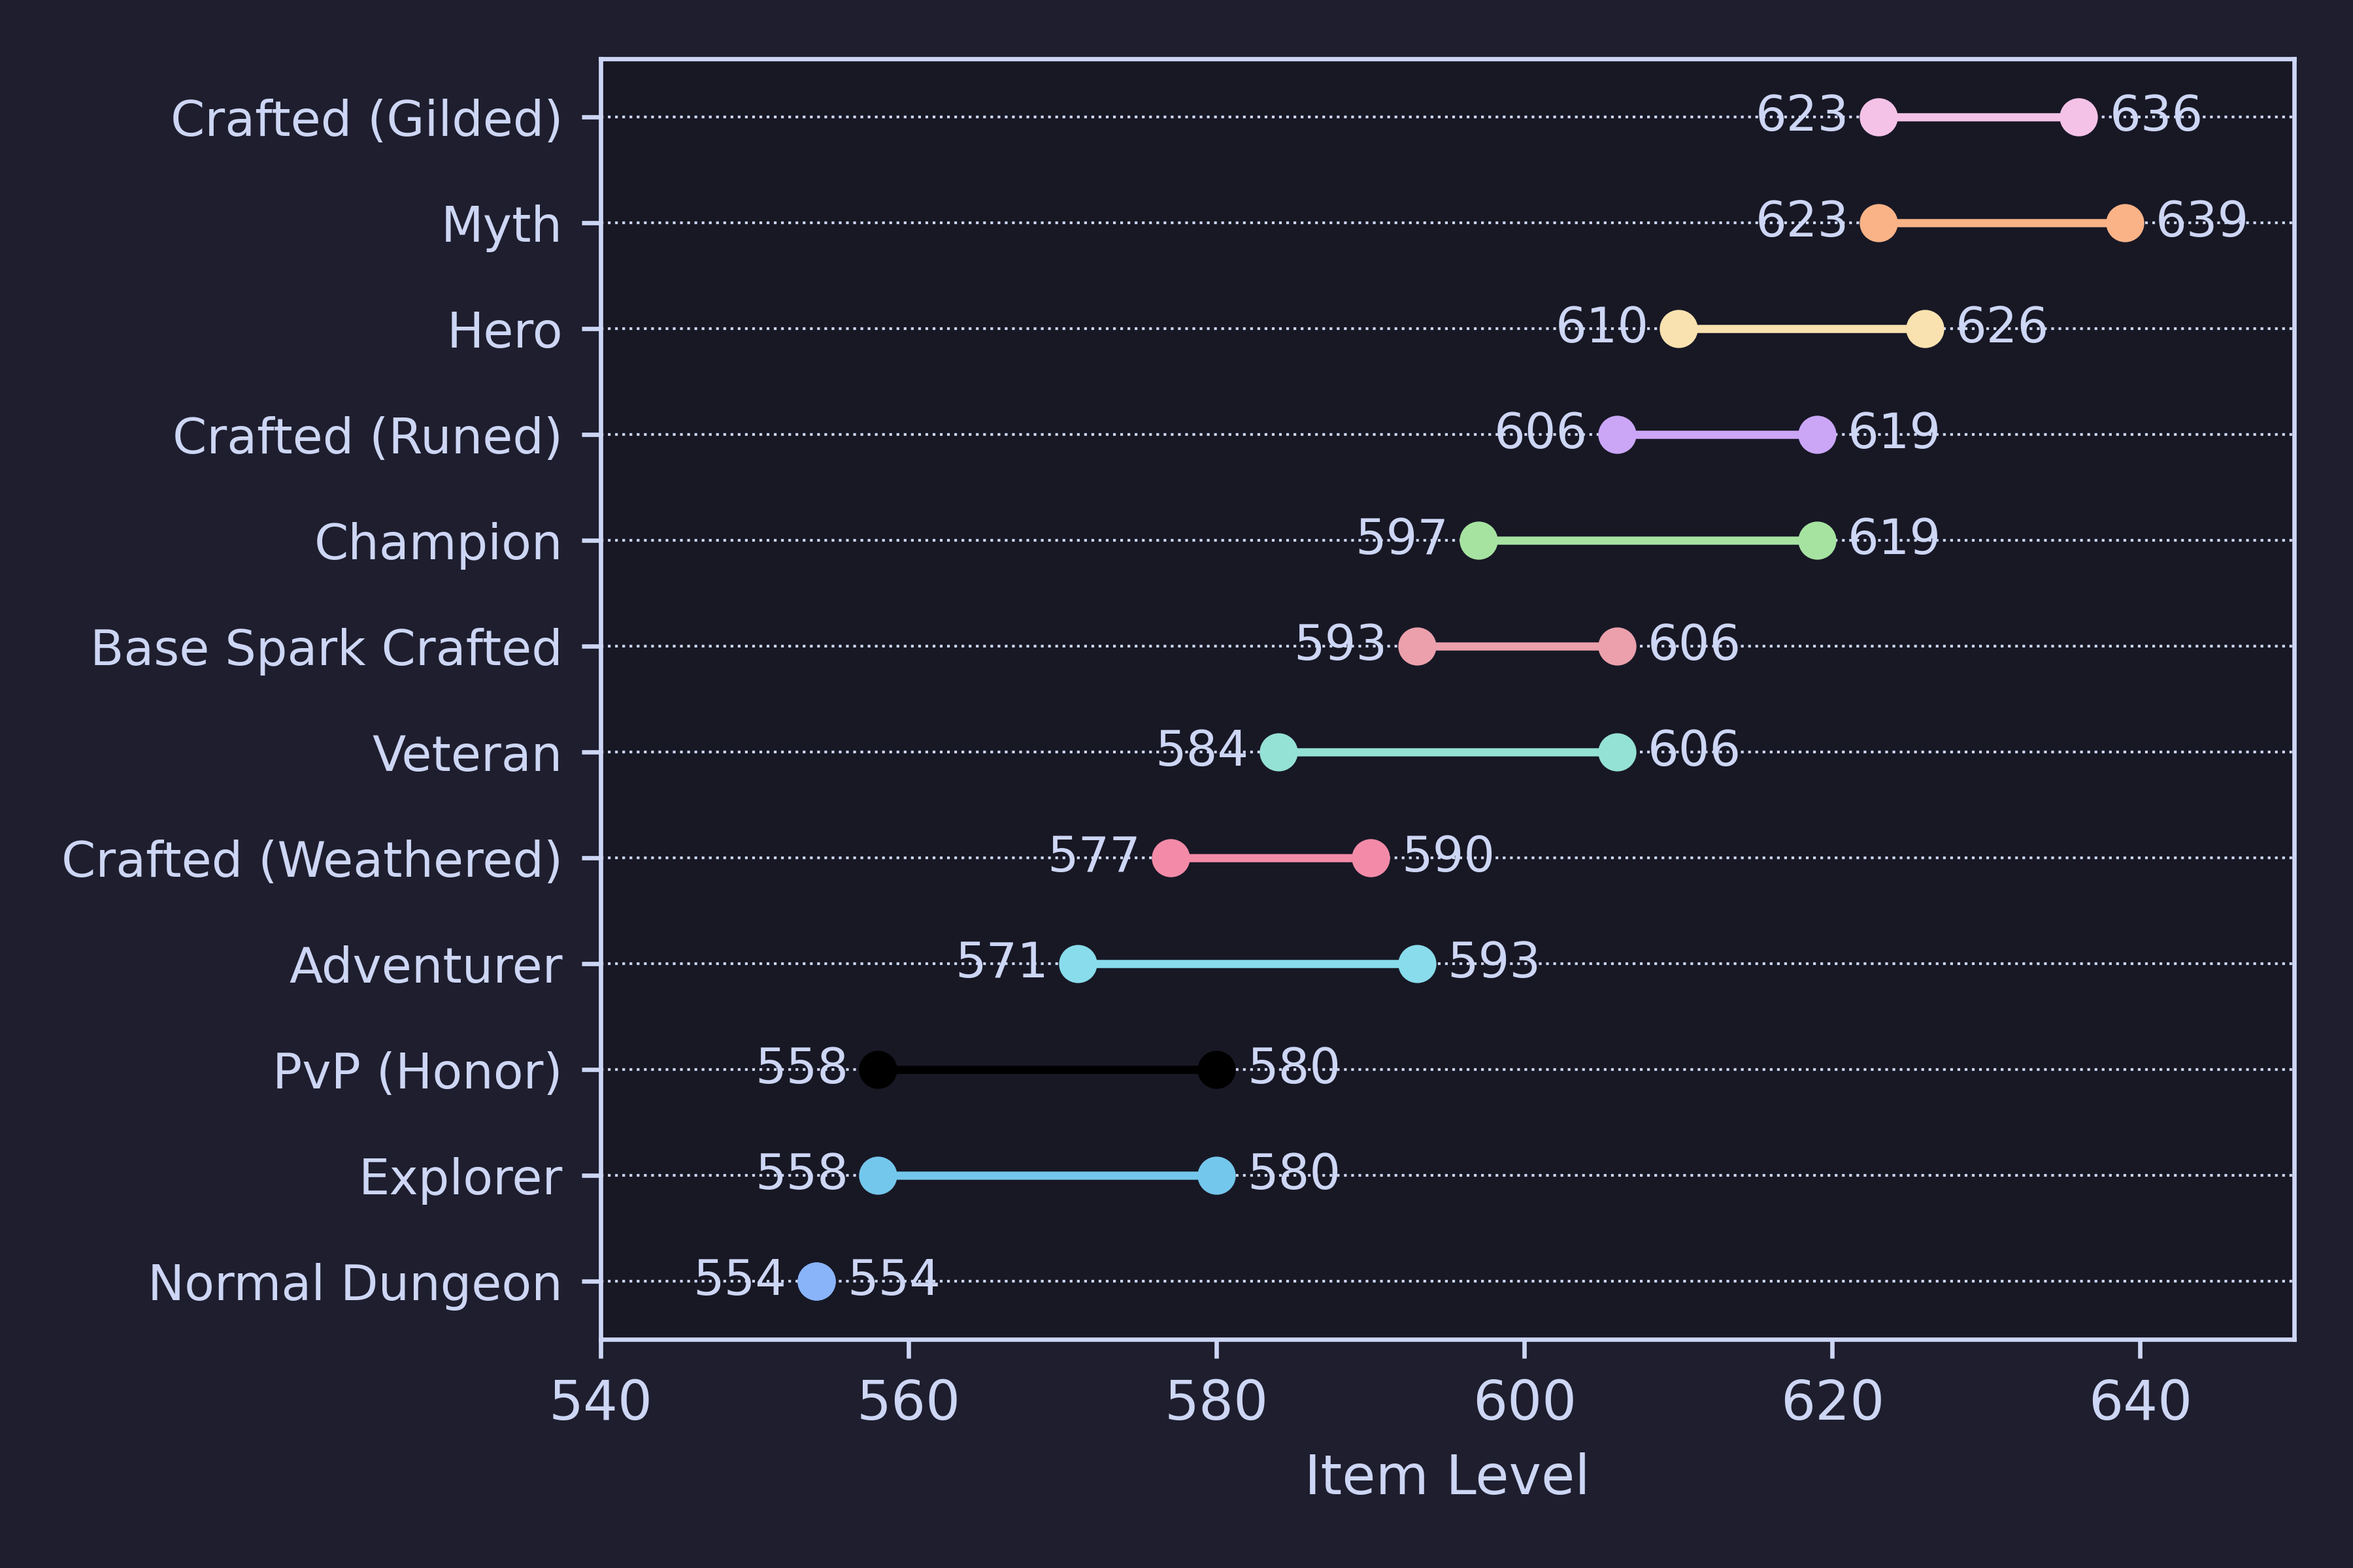
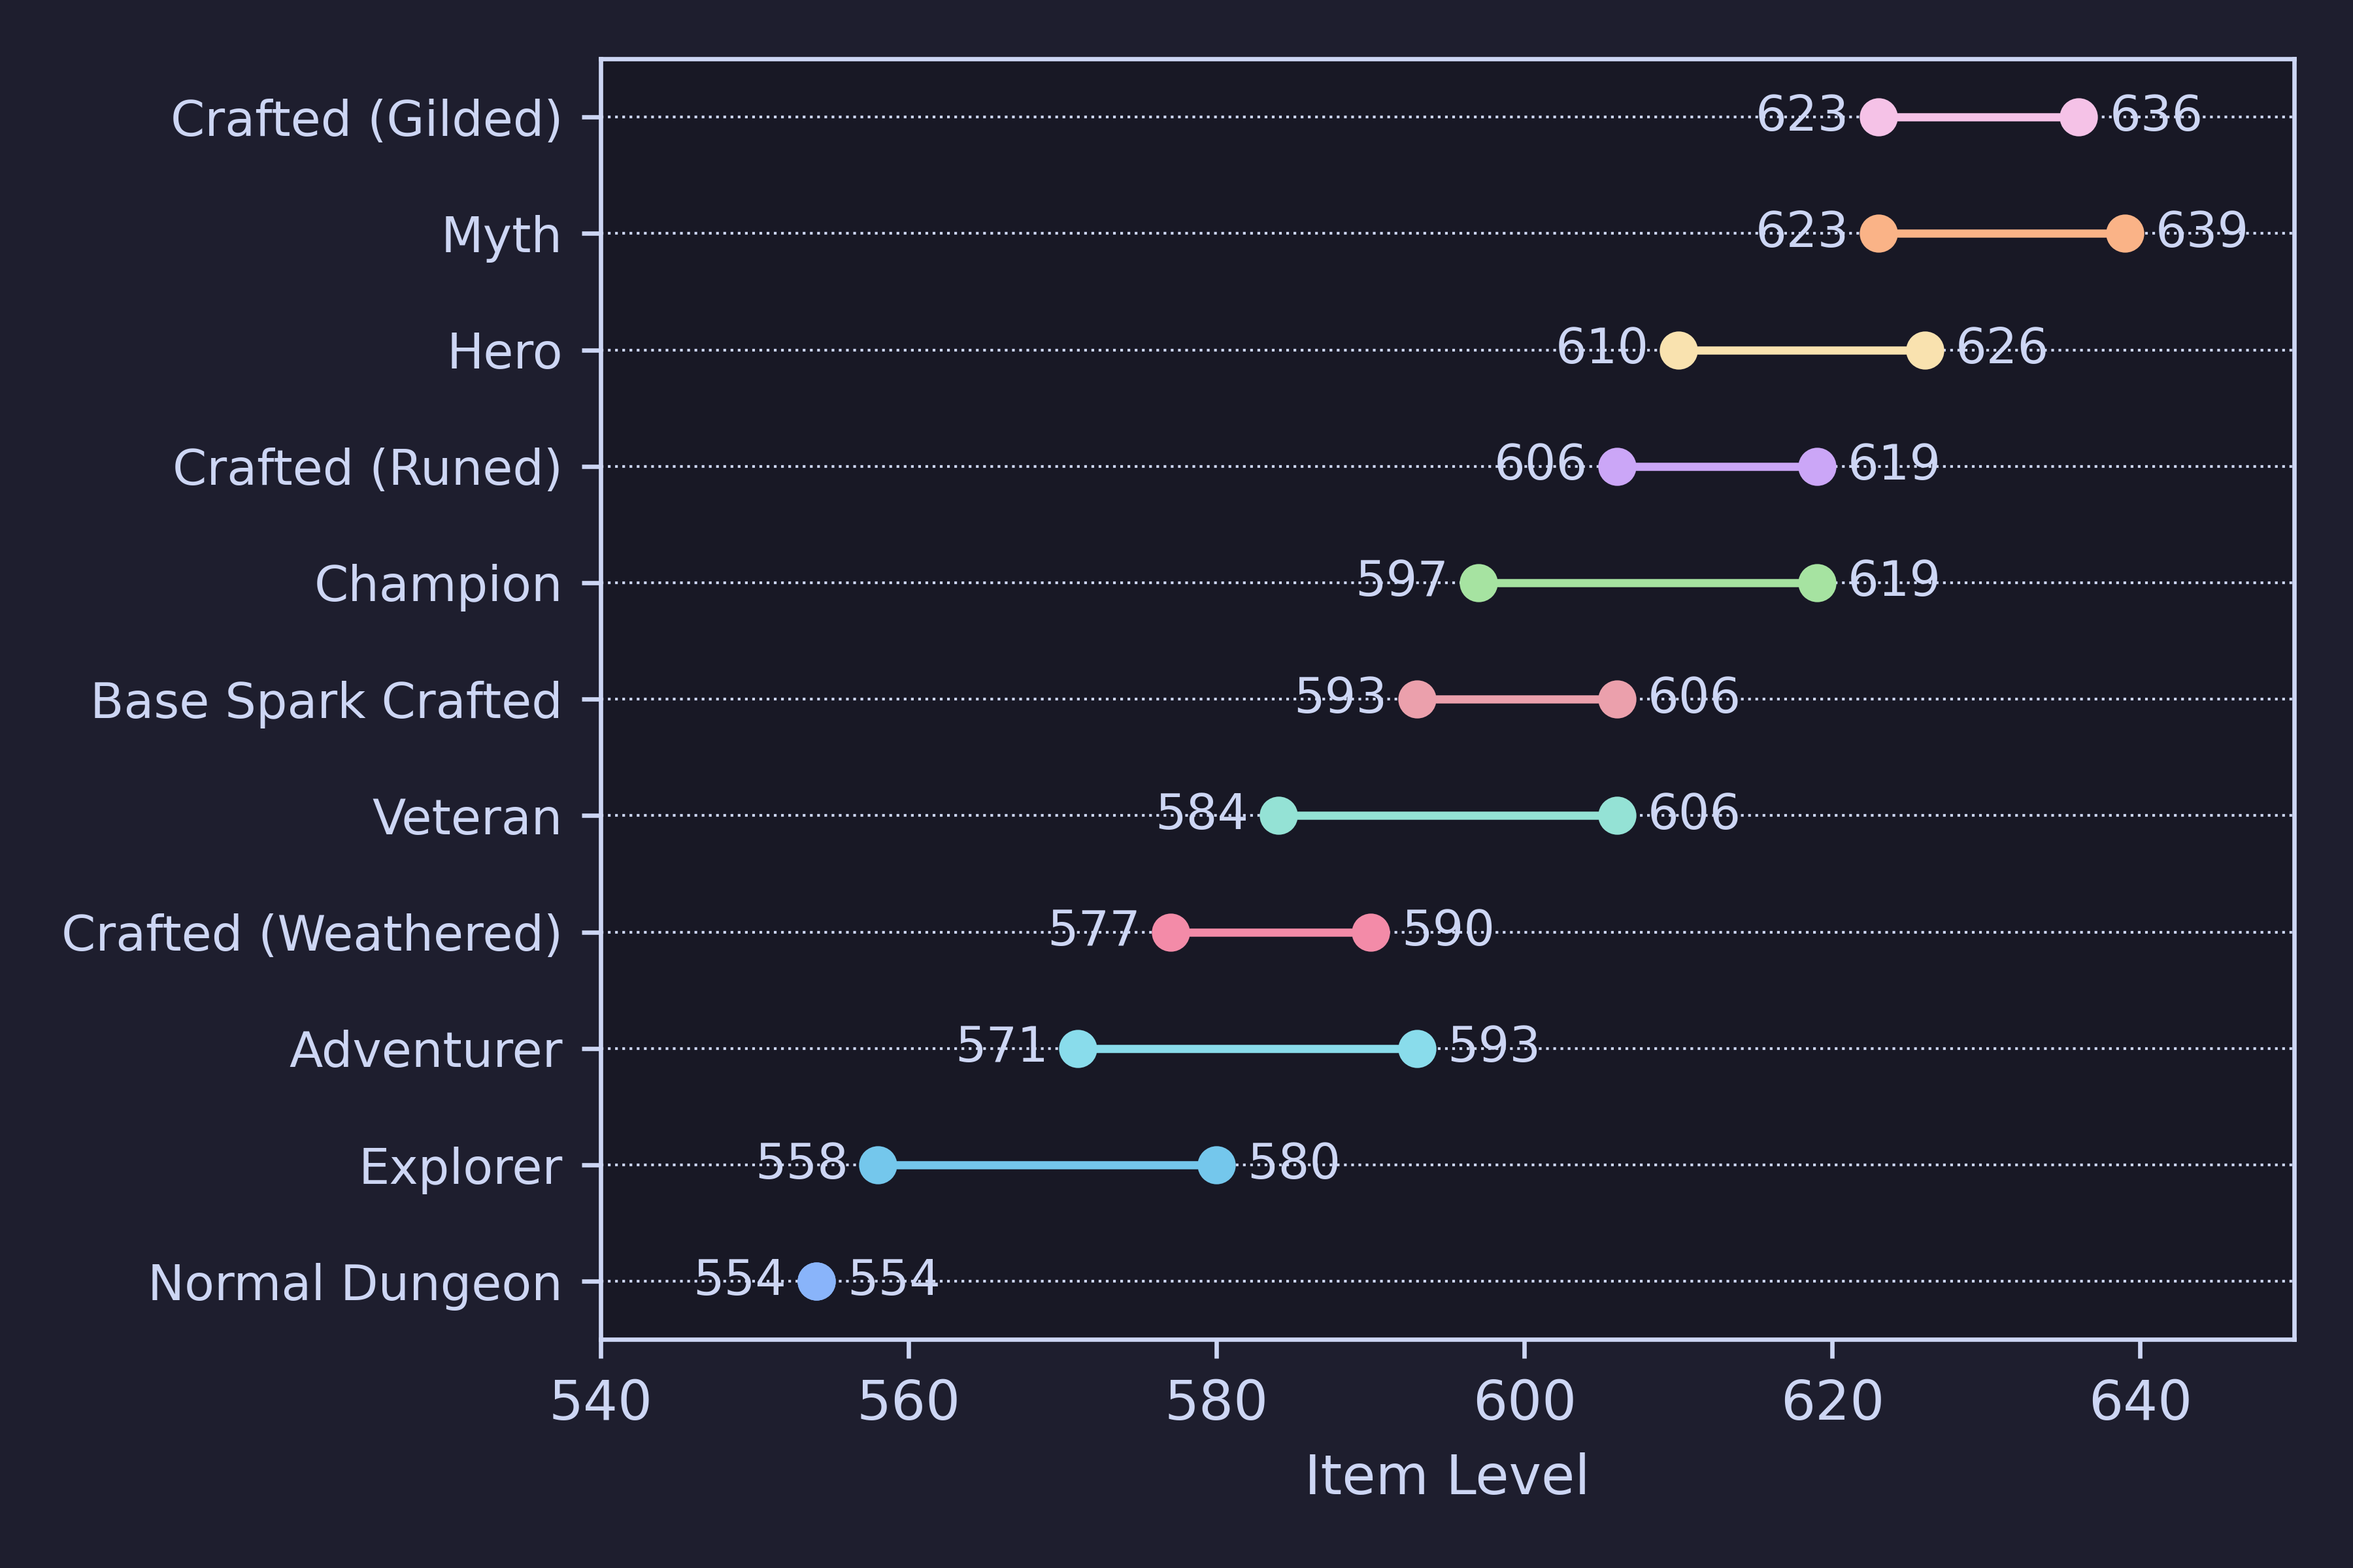
fix

diff --git a/gear_prog/data.py b/gear_prog/data.py
@@ -52,9 +52,7 @@ gear_score_data = {
     'Base Spark Crafted': {'Starting Item Level': 593, 'Max Item Level': 606},
     'Crafted (Weathered)': {'Starting Item Level': 577, 'Max Item Level': 590},
     'Crafted (Runed)': {'Starting Item Level': 606, 'Max Item Level': 619},
-    'Crafted (Gilded)': {'Starting Item Level': 623, 'Max Item Level': 636},
-    'PvP (Honor)': {'Starting Item Level': 558, 'Max Item Level': 580},
-
+    'Crafted (Gilded)': {'Starting Item Level': 623, 'Max Item Level': 636}
 }
 
 gear_source_data = {
